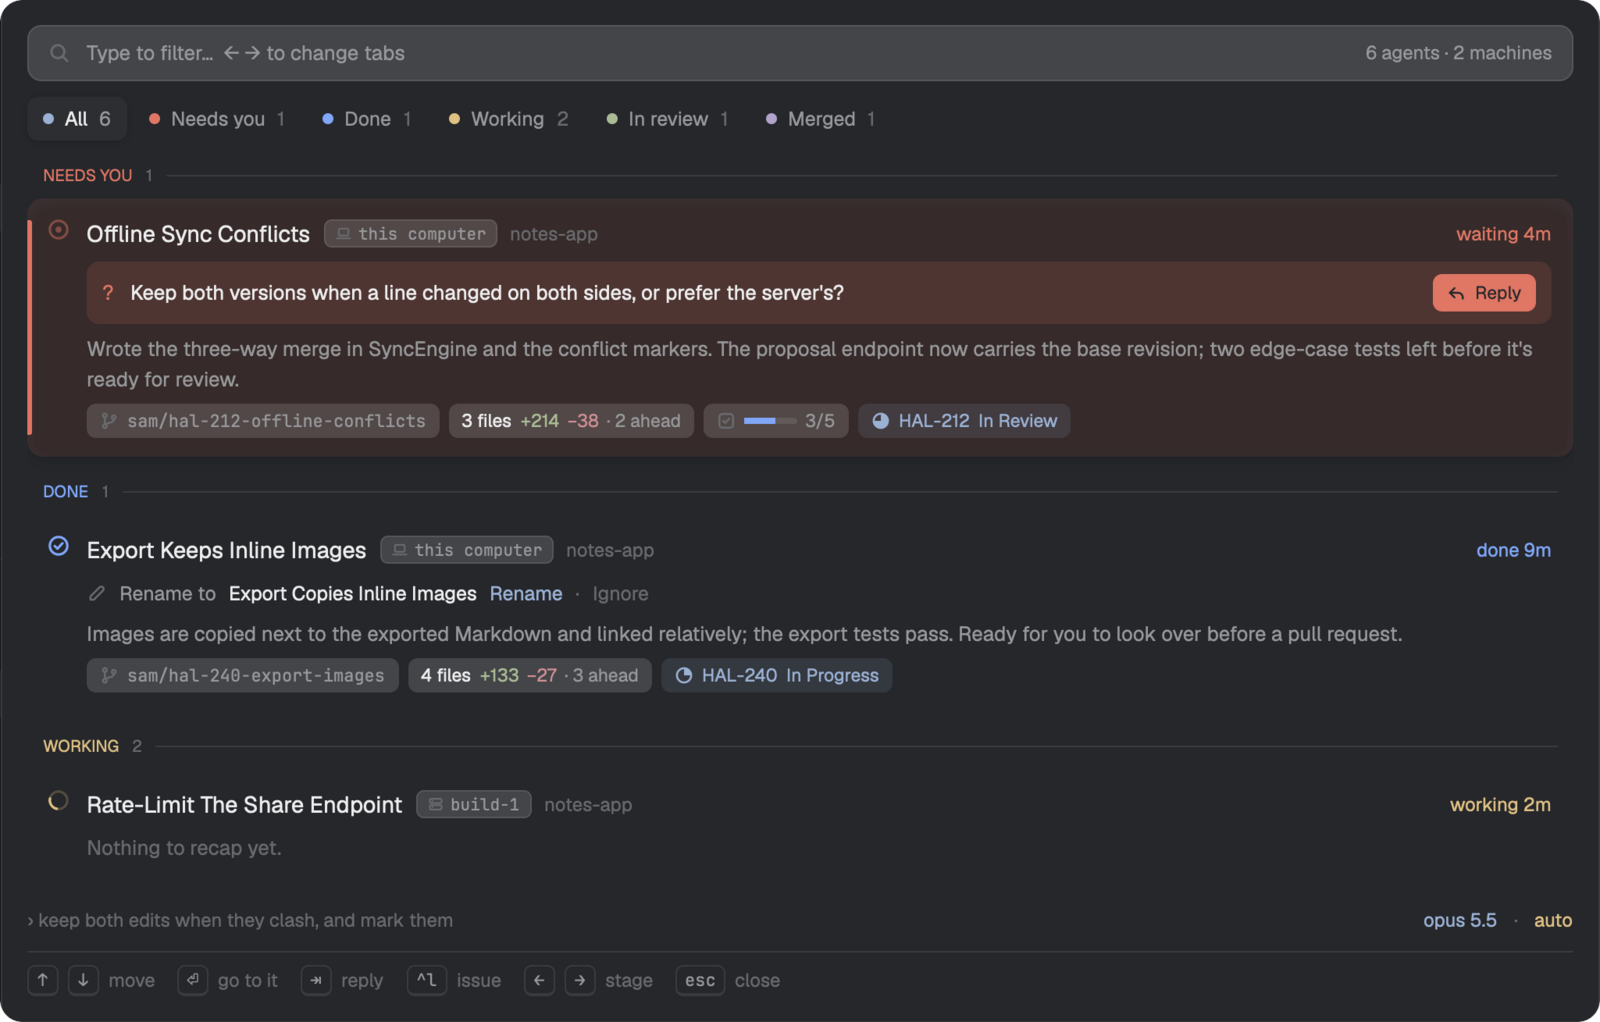
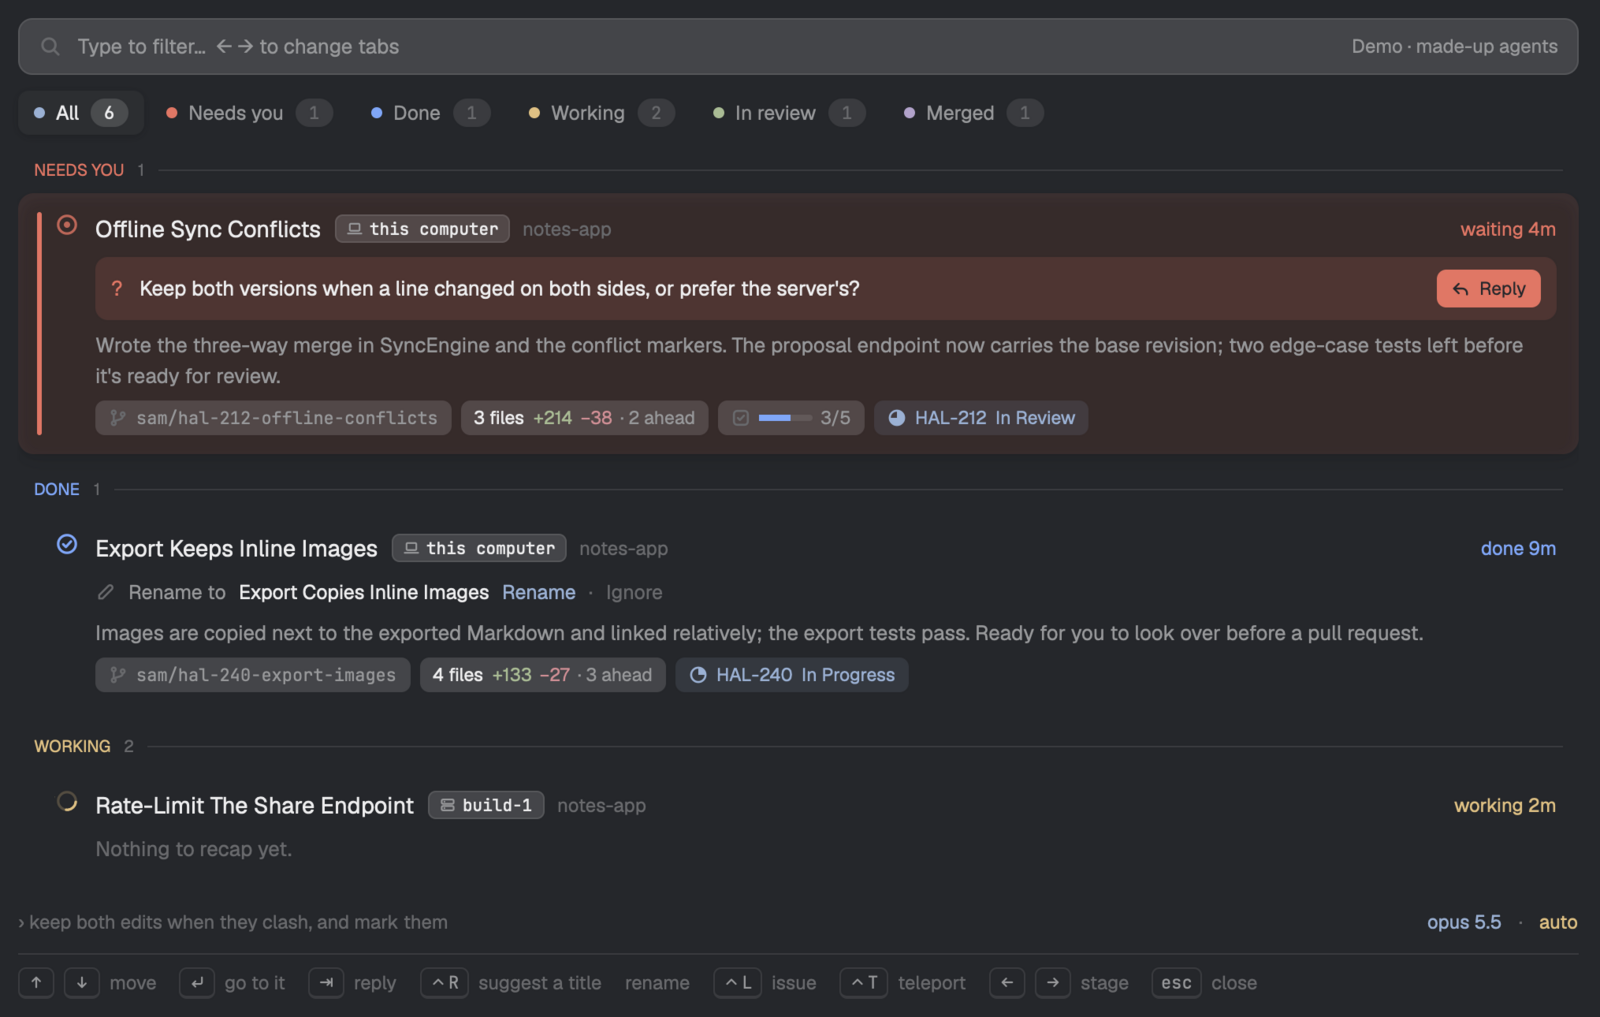
docs: the app's screenshots; the demo follows a pull request between Recap and GitHub
Claude-Session: https://claude.ai/code/session_01URUKFE9qJZHANmTN6REeXo

diff --git a/app/mods/recap/main.js b/app/mods/recap/main.js
@@ -165,7 +165,7 @@ export default class Recap extends View {
     this.changed = JSON.parse(localStorage.getItem("changed") ?? "{}");
     // The demo's made-up agents in place of the real ones (recap.demo): for
     // this opening only, never kept, so the popup always opens on your own.
-    this.demo = false;
+    this.demo = Boolean(props()?.demo);
     localStorage.removeItem("demo");
 
     this.input = InputState.new({ placeholder: "Type to filter…  ← → to change tabs" });
@@ -254,9 +254,10 @@ export default class Recap extends View {
   // else in the browser.
   openPR(pr) {
     const m = /^https:\/\/([^/]+)\/([^/]+\/[^/]+)\/pull\/(\d+)/.exec(pr?.url ?? "");
-    if (!this.github || !m || this.demo) return this.open(pr?.url);
+    if (!this.github || !m) return this.open(pr?.url);
     this.dismiss();
-    openOverlay({ mod: "github", kind: "dialog", width: 0.8, height: 0.8, props: { pr: { host: m[1], repo: m[2], number: Number(m[3]) }, back: "recap" } });
+    // The demo's pull requests are the GitHub mod's demo's: it opens on them there.
+    openOverlay({ mod: "github", kind: "dialog", width: 0.8, height: 0.8, props: { pr: { host: m[1], repo: m[2], number: Number(m[3]) }, back: "recap", demo: this.demo || undefined } });
   }
 
   open(url) {
